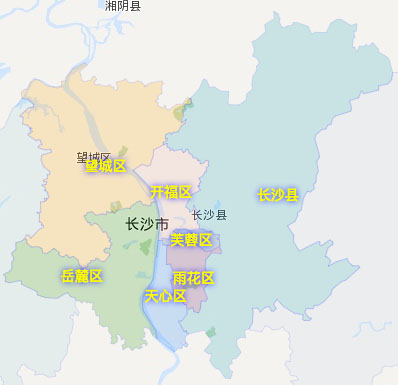
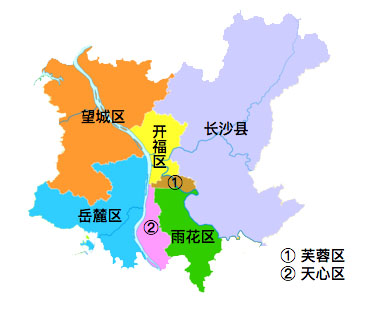
upgrade

diff --git a/README.md b/README.md
@@ -2,6 +2,10 @@
 
 
 ## 遇见长沙
+- 地理位置
+
+    ![地理位置](./images/position.png)
+
 - 行政区划
 
     ![行政区划图](./images/readme-xingzhengquhua.jpg)
@@ -18,9 +22,11 @@
     ![限购区域](./images/readme-xiangouquyu.jpg)
 
 - 中心城区
+
     一般是指内五区（芙蓉区，岳麓区，天心区，开福区，雨花区）
 
 - 副中心
+
     梅溪湖国际新城二期
 
 
